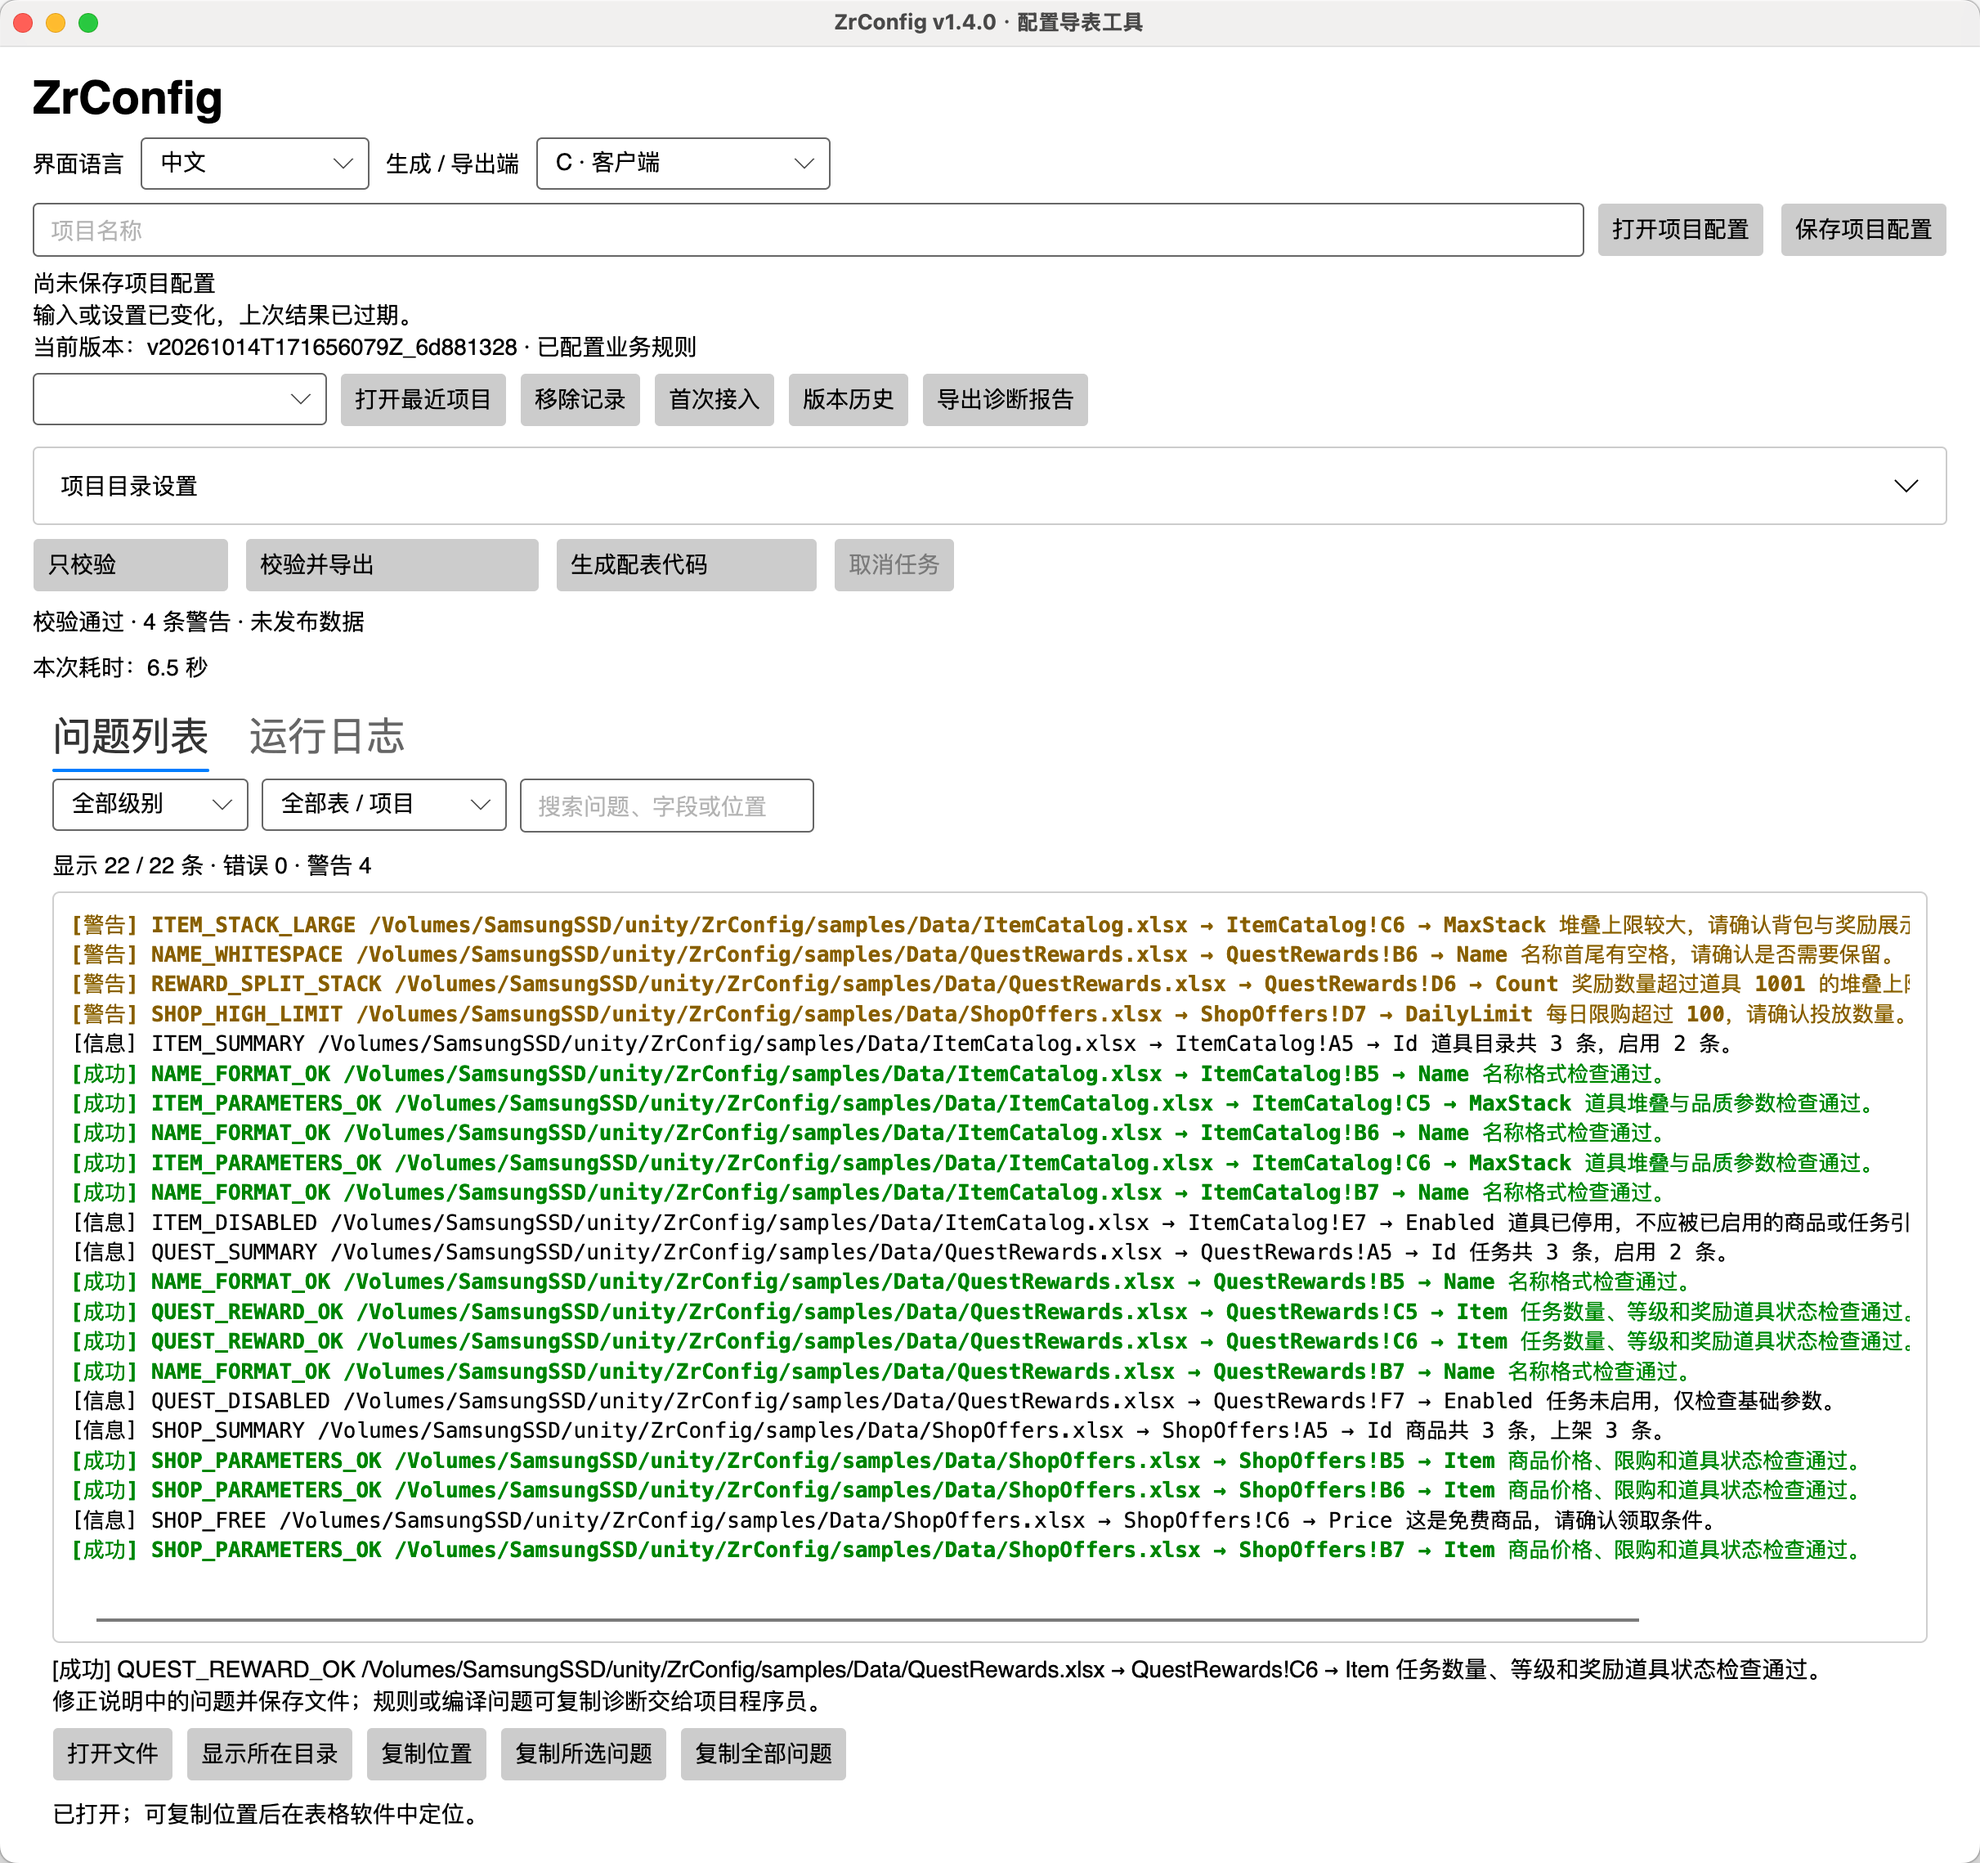
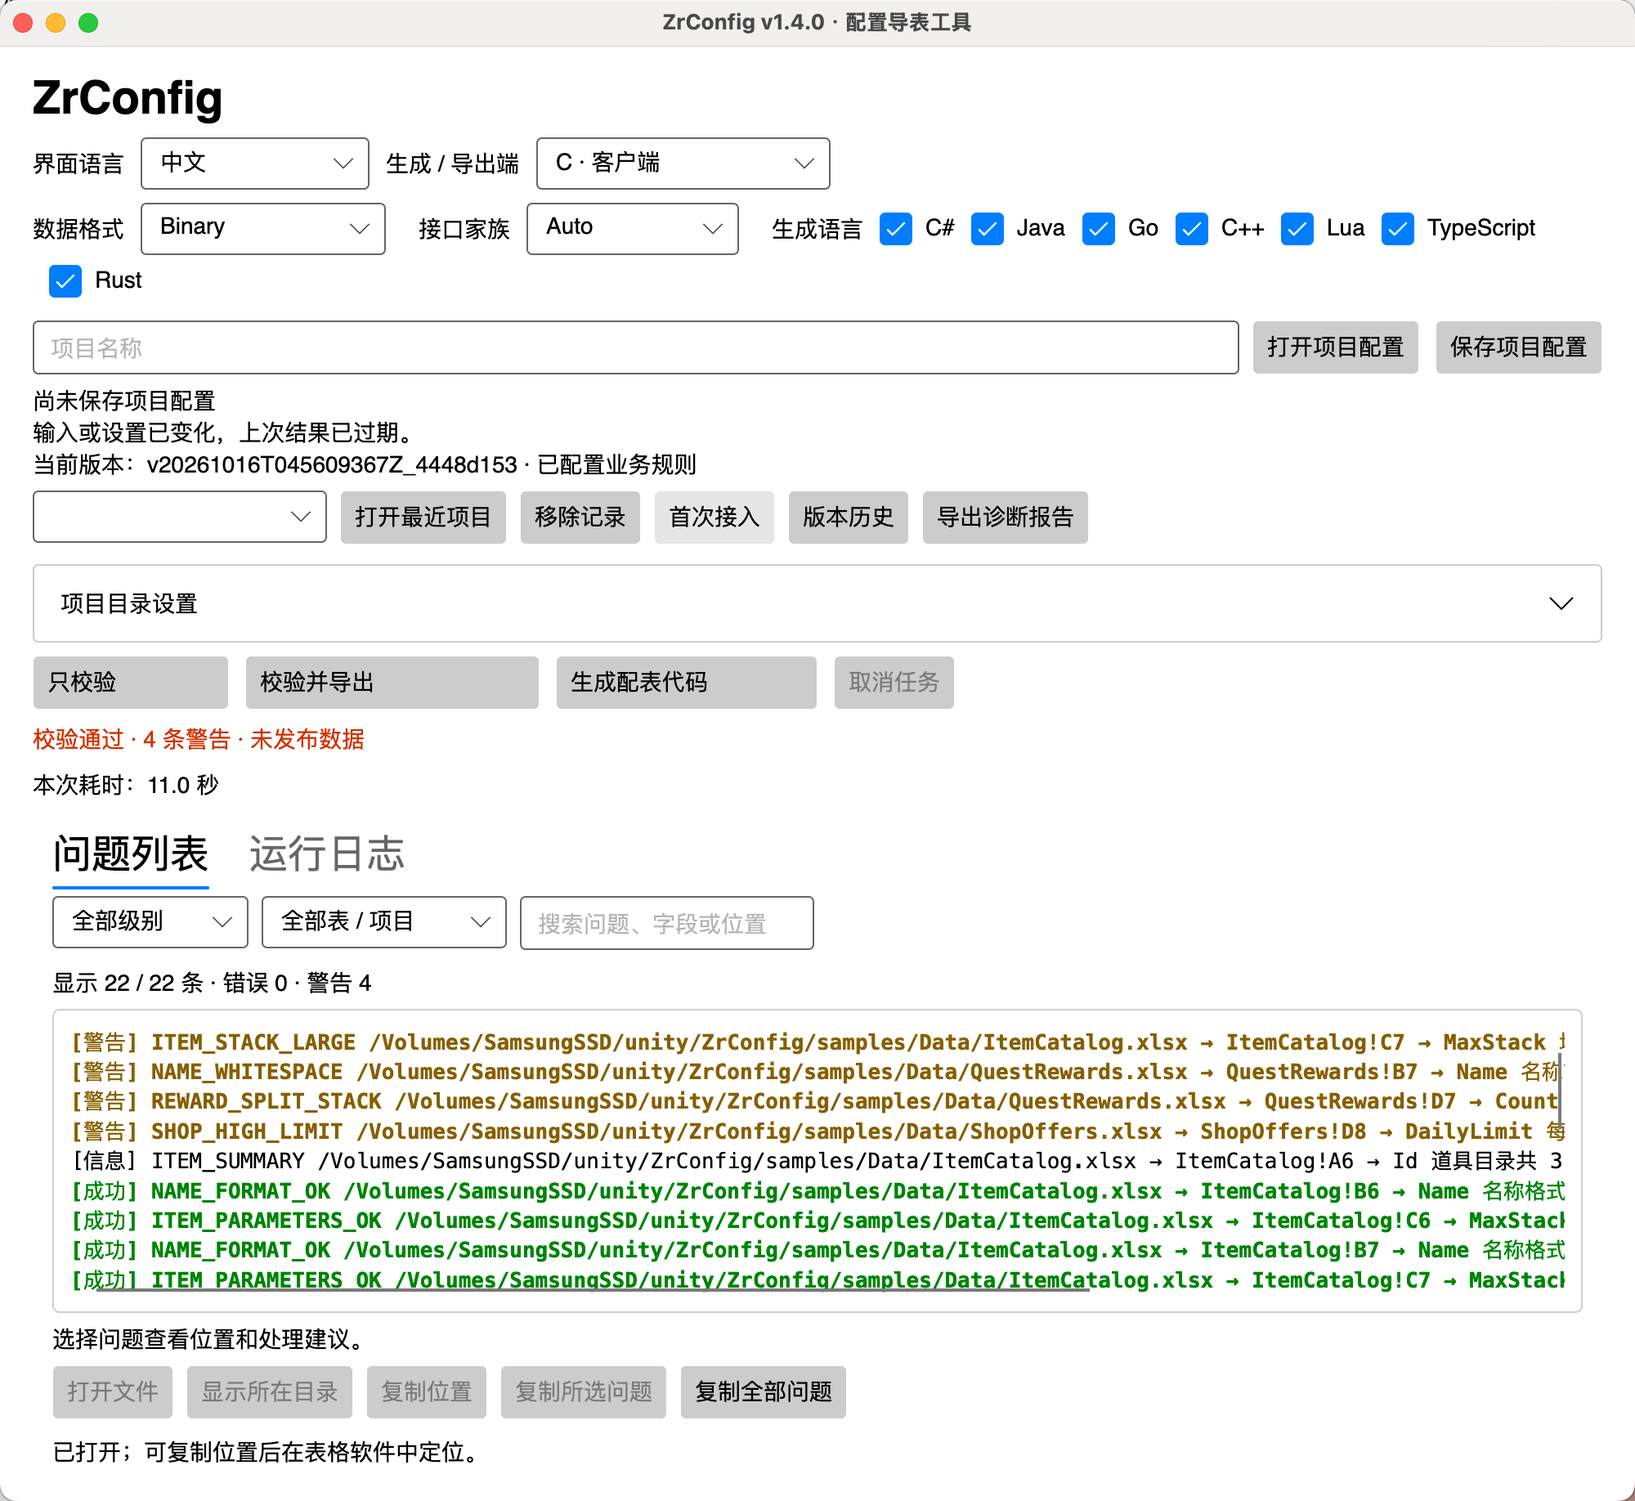
docs: refresh app screenshot and caption

Changed region(s): [[0.0, 0.0, 0.992, 0.9935], [0.403, 0.0, 0.589, 0.031], [0.992, 0.9935, 1.0, 1.0]]

diff --git a/README.md b/README.md
@@ -8,9 +8,9 @@
 
 **旧版升级**：本次源码更新不保证与上一 GitHub 版本的生成接口兼容；Excel 统一使用五行表头，升级时需同步核对工作簿、生成代码、运行库与数据。已知 API 基线检查结果见 [本轮验收记录](docs/release-and-acceptance.md#文档与公开源码复验2026-10-16)。
 
-![ZrConfig 1.4.0：项目状态、只校验与问题列表](docs/assets/zrconfig-app.png)
+![ZrConfig 1.4.0：多语言选项、只校验与问题列表](docs/assets/zrconfig-app.png)
 
-图中为 1.4.0 早期候选包的 macOS 中文界面，未展示后续加入的生成语言和数据格式选项：正式示例只校验通过、0 错误、4 条预期业务警告，尚未发布数据。问题列表支持筛选、搜索、定位与复制；截图中的本机路径仅作演示，上次结果是否仍有效以项目状态提示为准。
+图中为 1.4.0 的 macOS 中文界面，展示生成/导出端、数据格式、接口家族及七种生成语言选项。示例上次只校验通过，0 错误、4 条预期业务警告，尚未发布数据；当前状态提示输入或设置已变化，上次结果已过期。问题列表支持筛选、搜索、定位与复制，截图中的本机路径仅作演示。
 
 ## 核心亮点
 
